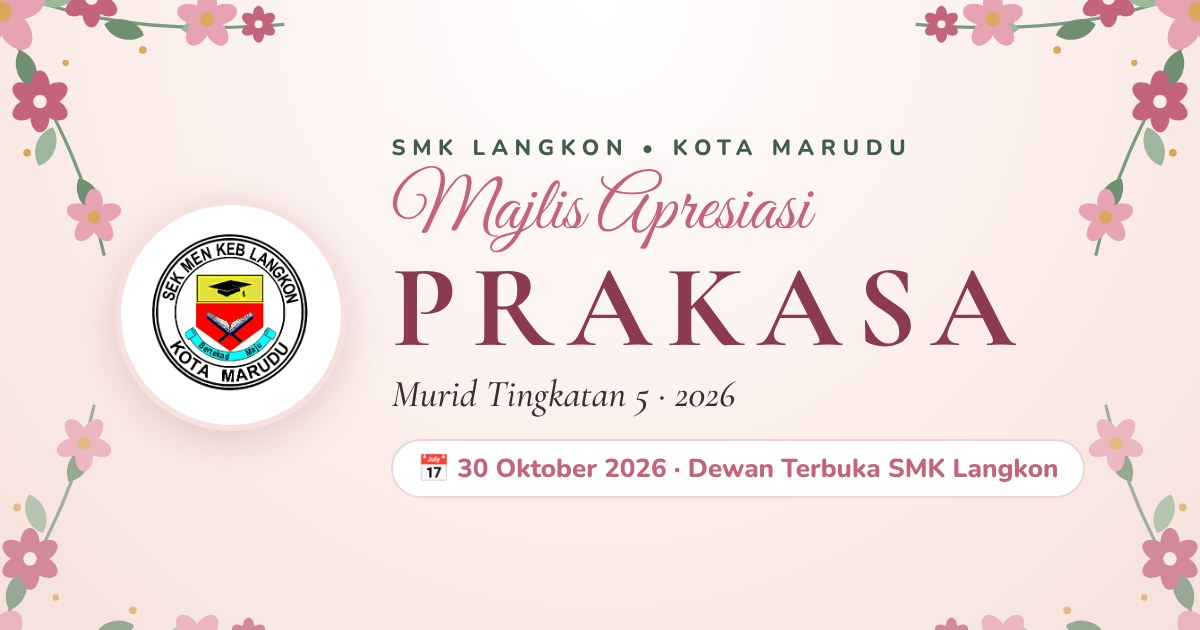
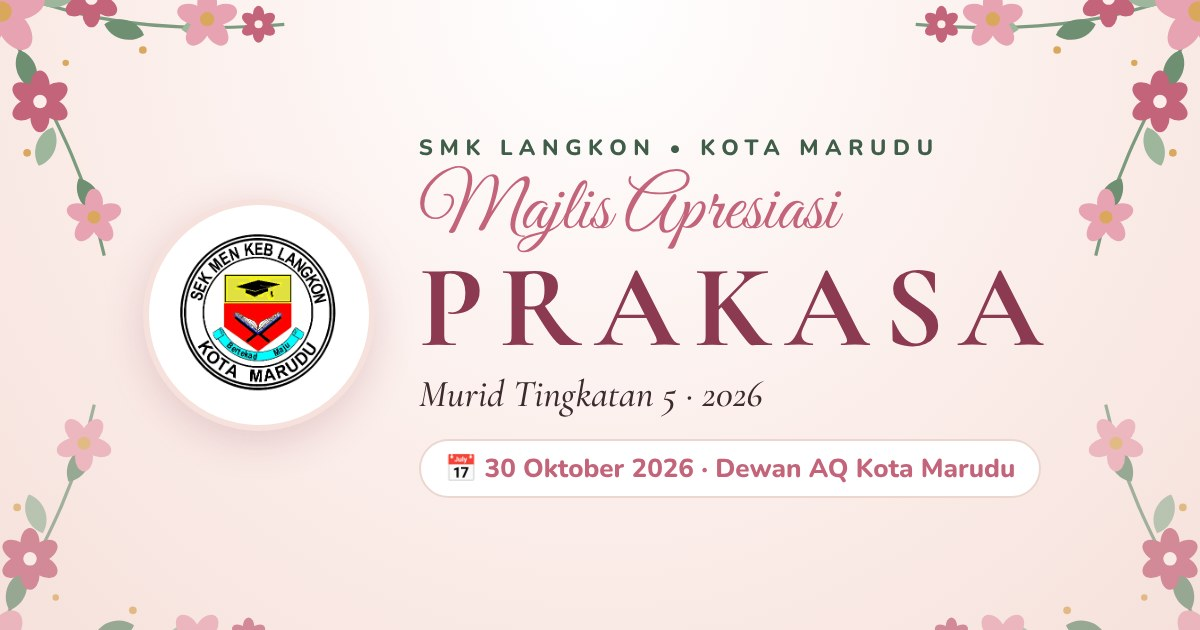
Tukar tempat majlis ke Dewan AQ Kota Marudu
Claude-Session: https://claude.ai/code/session_01W97MdTMtTxcAz3fykxWrRH

Changed region(s): [[0.0925, 0.3317, 0.8633, 0.6937], [0.3083, 0.2111, 0.7708, 0.3921], [0.3392, 0.6937, 0.925, 0.7841]]

diff --git a/index.html b/index.html
@@ -6,13 +6,13 @@
 <meta name="theme-color" content="#fbf4ee">
 <title>Majlis Apresiasi PRAKASA Murid Tingkatan 5 SMK Langkon</title>
 <!-- Pratonton pautan (WhatsApp, Facebook, Telegram) -->
-<meta name="description" content="Pendaftaran & kehadiran Majlis Apresiasi PRAKASA Murid Tingkatan 5 SMK Langkon · 30 Oktober 2026 · Dewan Terbuka SMK Langkon">
+<meta name="description" content="Pendaftaran & kehadiran Majlis Apresiasi PRAKASA Murid Tingkatan 5 SMK Langkon · 30 Oktober 2026 · Dewan AQ Kota Marudu">
 <meta property="og:type" content="website">
 <meta property="og:site_name" content="SMK Langkon">
 <meta property="og:title" content="Majlis Apresiasi PRAKASA Murid Tingkatan 5 SMK Langkon 2026">
-<meta property="og:description" content="30 Oktober 2026 (Jumaat) · 2.00 – 6.30 petang · Dewan Terbuka SMK Langkon. Cari nama murid, kod QR kehadiran & tentatif majlis.">
+<meta property="og:description" content="30 Oktober 2026 (Jumaat) · 2.00 – 6.30 petang · Dewan AQ Kota Marudu. Cari nama murid, kod QR kehadiran & tentatif majlis.">
 <meta property="og:url" content="https://smklangkon.github.io/prakasa2026/">
-<meta property="og:image" content="https://smklangkon.github.io/prakasa2026/og-image.jpg">
+<meta property="og:image" content="https://smklangkon.github.io/prakasa2026/og-image.jpg?v=2">
 <meta property="og:image:width" content="1200">
 <meta property="og:image:height" content="630">
 <meta property="og:image:alt" content="Majlis Apresiasi PRAKASA SMK Langkon 2026">
@@ -38,7 +38,7 @@ const CONFIG = {
   TAHUN: '2026',
   TARIKH: '30 Oktober 2026 (Jumaat)',
   MASA: '2.00 petang – 6.30 petang',
-  TEMPAT: 'Dewan Terbuka SMK Langkon',
+  TEMPAT: 'Dewan AQ Kota Marudu',
   TEMA: 'Meneroka Ilmu • Membina Aspirasi • Melangkah ke Masa Depan',
   PROGRAM: 'Program PRISMA 2026 • Unit Kurikulum SMK Langkon',
   LOGO_URL: 'logo.png',    // logo sekolah (kosong = ikon bunga)

diff --git a/README.md b/README.md
@@ -45,7 +45,7 @@ Buka `index.html`, cari blok `CONFIG` di bahagian atas dan isi:
 ```js
 API_URL: 'https://script.google.com/macros/s/XXXX/exec',
 TARIKH: '30 Oktober 2026 (Jumaat)',
-TEMPAT: 'Dewan Terbuka SMK Langkon',
+TEMPAT: 'Dewan AQ Kota Marudu',
 LOGO_URL: 'https://...logo-sekolah.png',
 PELAN_URL: 'https://...pelan-tempat-duduk.png',
 BUKU_URL: 'https://anyflip.com/...',
